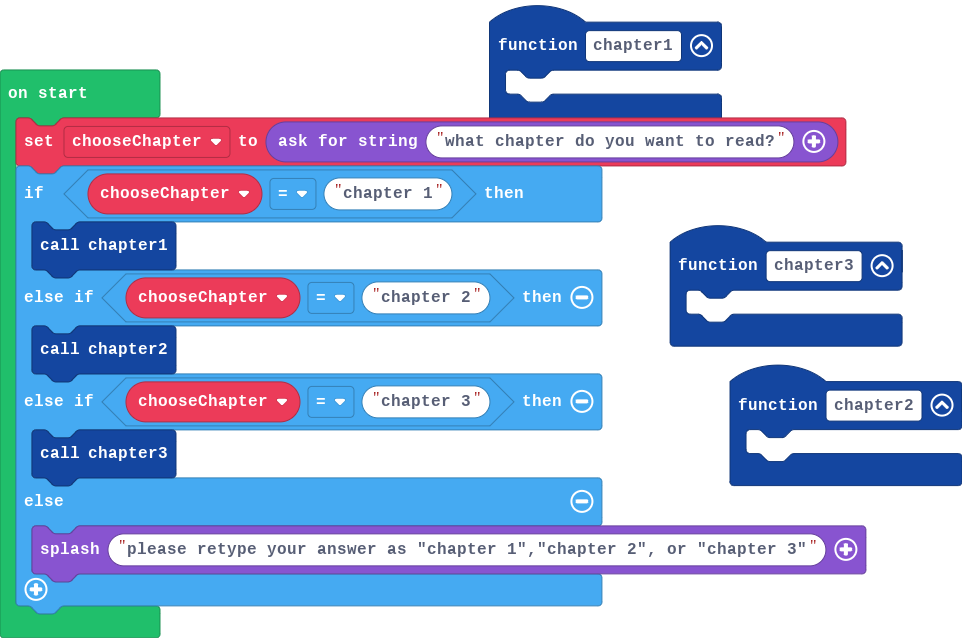
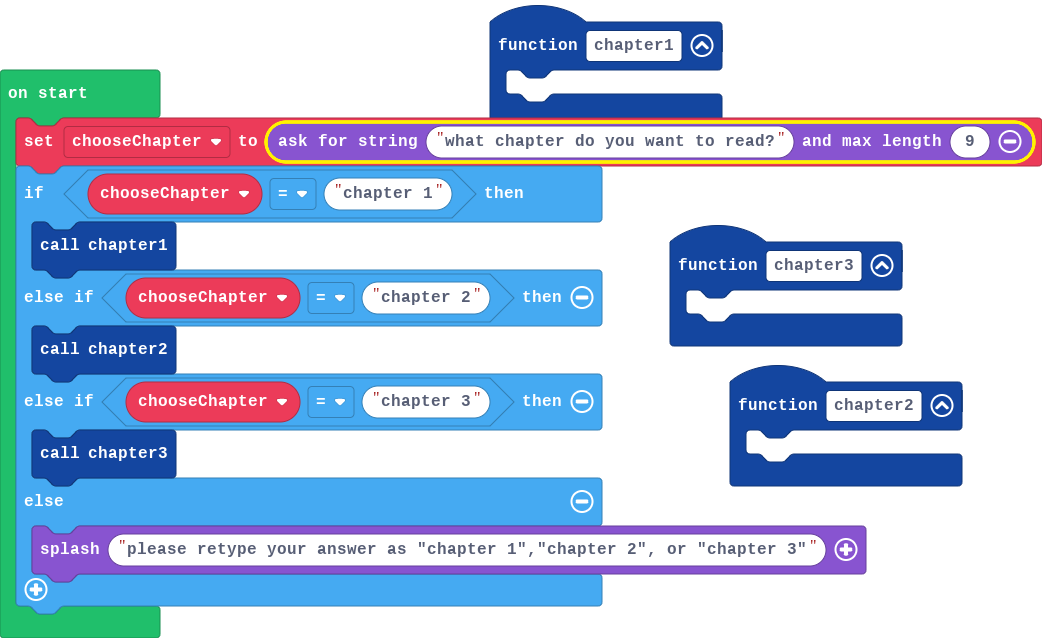
Update main.blocks, main.ts

diff --git a/main.ts b/main.ts
@@ -7,7 +7,7 @@ function chapter2 () {
 function chapter1 () {
 	
 }
-let chooseChapter = game.askForString("what chapter do you want to read?")
+let chooseChapter = game.askForString("what chapter do you want to read?", 9)
 if (chooseChapter == "chapter 1") {
     chapter1()
 } else if (chooseChapter == "chapter 2") {
